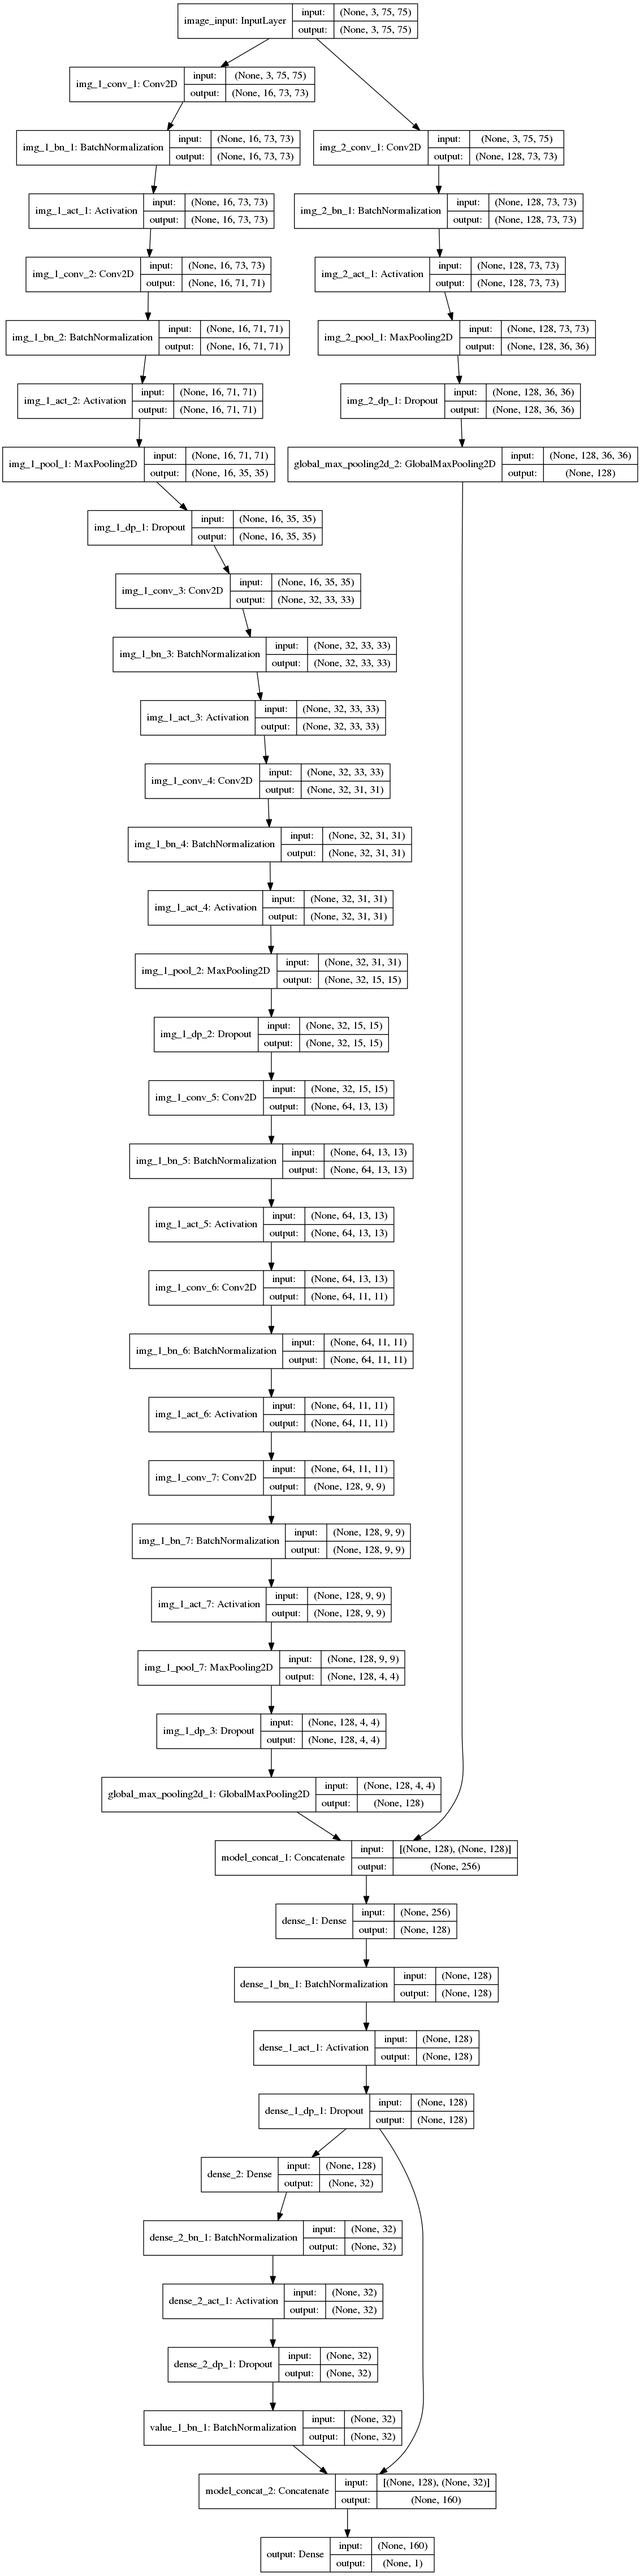
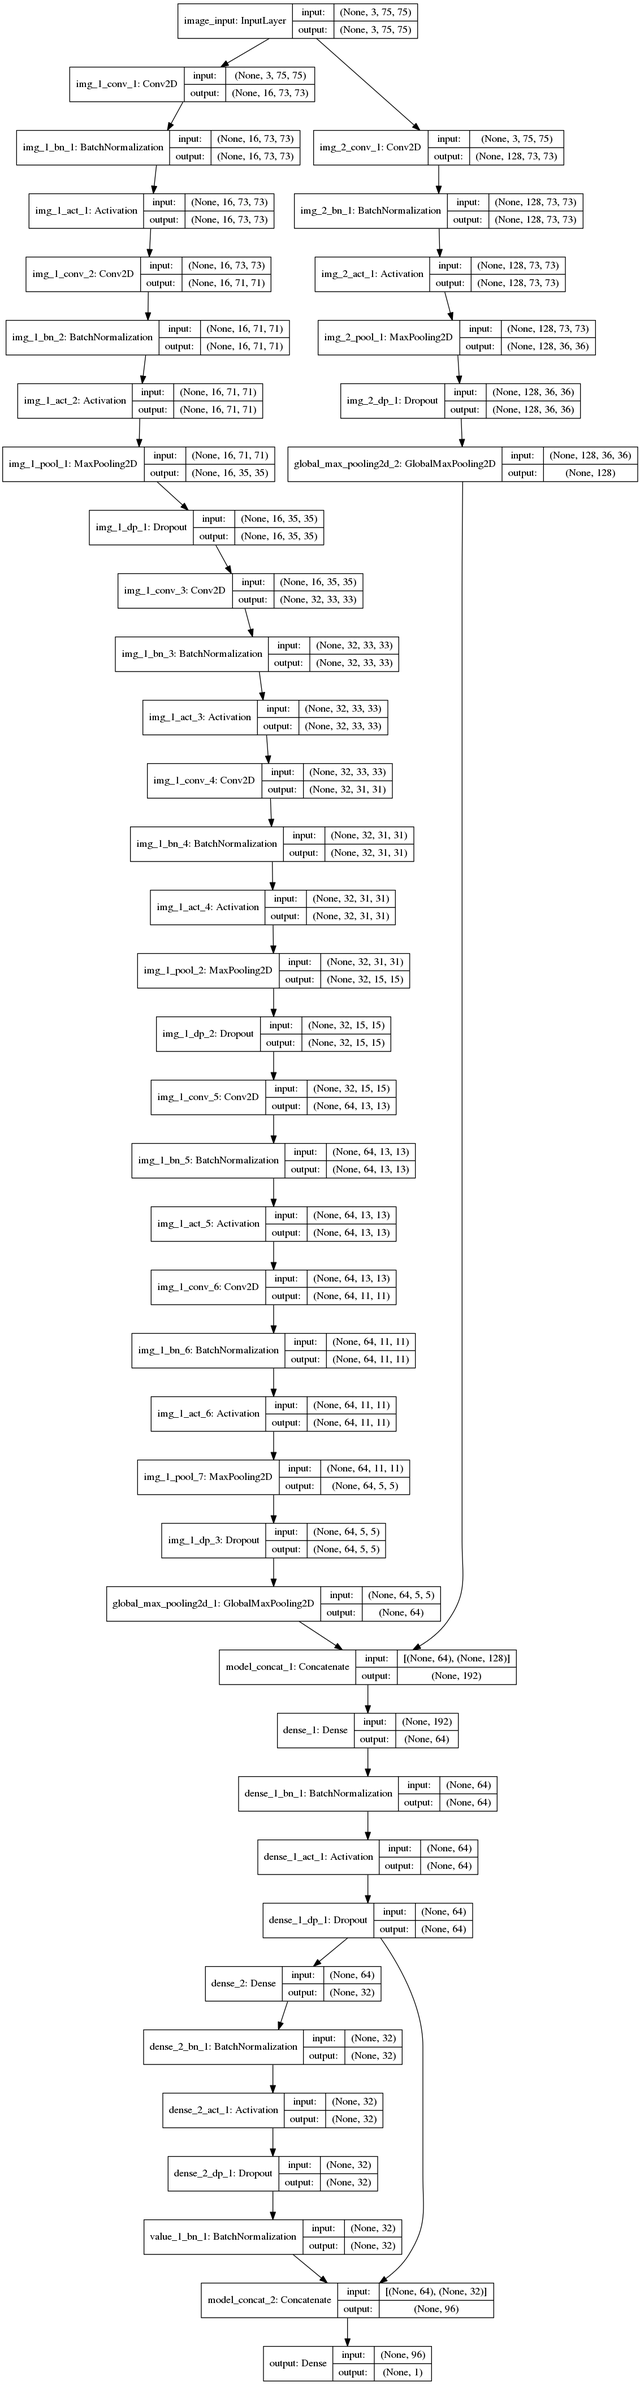
some fixes

Changed region(s): [[0.0, 0.0, 0.9585, 1.0], [0.9894, 0.1863, 1.0, 0.2174]]

diff --git a/utils/common.py b/utils/common.py
@@ -22,8 +22,8 @@ def load_and_format(in_path):
 
 def aug(x_array, angle_array, y_array, x, a, y):
     # input's shape (cn, w, h)
-    rn1 = np.random.randint(0, 12)
-    rn2 = np.random.randint(x.shape[1] - 12, x.shape[1])  # this is much better
+    rn1 = np.random.randint(0, 16)
+    rn2 = np.random.randint(x.shape[1] - 16, x.shape[1])  # this is much better
 
     # rotate 90
     # rt90 = np.rot90(x, 1, axes=(1, 2))
@@ -34,6 +34,15 @@ def aug(x_array, angle_array, y_array, x, a, y):
     # flip h
     flip_h = np.flip(x, 2)
     x_array = np.concatenate((x_array, [flip_h]))
+    y_array = np.concatenate((y_array, [y]))
+    angle_array = np.concatenate((angle_array, [a]))
+
+    # shift
+    shift = x.transpose((1, 2, 0))
+    M = np.float32([[1, 0, rn1], [0, 1, rn2]])
+    shift = cv2.warpAffine(shift, M, (shift.shape[0], shift.shape[1]))
+    shift = shift.transpose((2, 0, 1))
+    x_array = np.concatenate((x_array, [shift]))
     y_array = np.concatenate((y_array, [y]))
     angle_array = np.concatenate((angle_array, [a]))
 
@@ -50,14 +59,6 @@ def aug(x_array, angle_array, y_array, x, a, y):
     x_array = np.concatenate((x_array, [crop]))
     y_array = np.concatenate((y_array, [y]))
     angle_array = np.concatenate((angle_array, [a]))
-
-    # # rotate 90, flip v
-    # rot90_flip_v = np.rot90(flip_v, 1, axes=(1, 2))
-    #
-    # # rotate 90, flip h
-    # rot90_flip_h = np.rot90(flip_h, 1, axes=(1, 2))
-    # x_array = np.concatenate((x_array, [rot90_flip_h]))
-    # y_array = np.concatenate((y_array, [y]))
 
     return x_array, angle_array, y_array
 

diff --git a/vis.py b/vis.py
@@ -5,7 +5,7 @@ import pandas as pd
 import matplotlib.pyplot as plt
 import matplotlib.gridspec as gridspec
 
-BAND = 0
+BAND = 1
 df_val = pd.read_json('resource/val_split.json')
 
 is_iceberg = df_val['is_iceberg'].values
@@ -14,11 +14,13 @@ x_val = df_val.drop(['is_iceberg', 'id'], axis=1)
 x_val = x_val.apply(lambda c_row: [np.stack([c_row['band_1'], c_row['band_2']]).reshape((2, 75, 75))], 1)
 
 x_val = np.stack(x_val).squeeze().astype(np.float32)
+np.random.shuffle(x_val)
 
 print 'is_iceberg.shape: ', is_iceberg.shape
 print 'x_val.shape: ', x_val.shape
 
-images = x_val[is_iceberg == 1]
+# images = x_val[is_iceberg == 1]
+images = x_val
 gs = gridspec.GridSpec(int(math.sqrt(images[:100].shape[0])), int(math.sqrt(images[:100].shape[0])),
                        top=1., bottom=0., right=1., left=0., hspace=0., wspace=0.)
 i = 0
@@ -31,5 +33,5 @@ for g in gs:
     ax.set_aspect('auto')
     i += 1
 
-plt.savefig('visual/band_1_{}.jpg'.format(BAND), dpi=100, bbox_inches='tight')
+plt.savefig('visual/band_{}.jpg'.format(BAND), dpi=100, bbox_inches='tight')
 print 'Visualizations are done!'

diff --git a/fit.py b/fit.py
@@ -75,7 +75,7 @@ model.summary()
 plot_model(model, to_file='simple.png', show_shapes=True)
 
 adam = Adam(lr=1e-3, decay=1e-5)
-sgd = SGD(lr=6e-2, momentum=.9, decay=1e-5)
+sgd = SGD(lr=1e-1, momentum=.9, decay=1e-5)
 
 model.compile(loss='binary_crossentropy',
               optimizer=sgd,
@@ -89,7 +89,7 @@ def schedule(epoch):
     return lr * (0.5 ** (1 * (int(epoch % 40) == 0)))
 
 rm_cb = keras_cb.RemoteMonitor()
-ers_cb = keras_cb.EarlyStopping(patience=40)
+ers_cb = keras_cb.EarlyStopping(patience=60)
 lr_cb = keras_cb.LearningRateScheduler(schedule)
 
 ################################################################
@@ -102,7 +102,7 @@ model.fit([x_train, train_angle], y_train,
           shuffle=True)
 
 print('================= Validation =================')
-[v_loss, v_acc] = model.evaluate(x_val, y_val, batch_size=BATCH_SIZE, verbose=1)
+[v_loss, v_acc] = model.evaluate([x_val, val_angle], y_val, batch_size=BATCH_SIZE, verbose=1)
 print('\nVal Loss: {:.5f}, Val Acc: {:.5f}'.format(v_loss, v_acc))
 
 

diff --git a/models/model/simple.py b/models/model/simple.py
@@ -44,9 +44,9 @@ def model(weights_path=None):
     _img_1 = BatchNormalization(axis=1, name="img_1_bn_6")(_img_1)
     _img_1 = Activation(act, name="img_1_act_6")(_img_1)
 
-    _img_1 = Conv2D(128, (3, 3), name="img_1_conv_7")(_img_1)
-    _img_1 = BatchNormalization(axis=1, name="img_1_bn_7")(_img_1)
-    _img_1 = Activation(act, name="img_1_act_7")(_img_1)
+    # _img_1 = Conv2D(128, (3, 3), name="img_1_conv_7")(_img_1)
+    # _img_1 = BatchNormalization(axis=1, name="img_1_bn_7")(_img_1)
+    # _img_1 = Activation(act, name="img_1_act_7")(_img_1)
 
     _img_1 = MaxPooling2D((2, 2), name="img_1_pool_7")(_img_1)
     _img_1 = Dropout(dp, name="img_1_dp_3")(_img_1)
